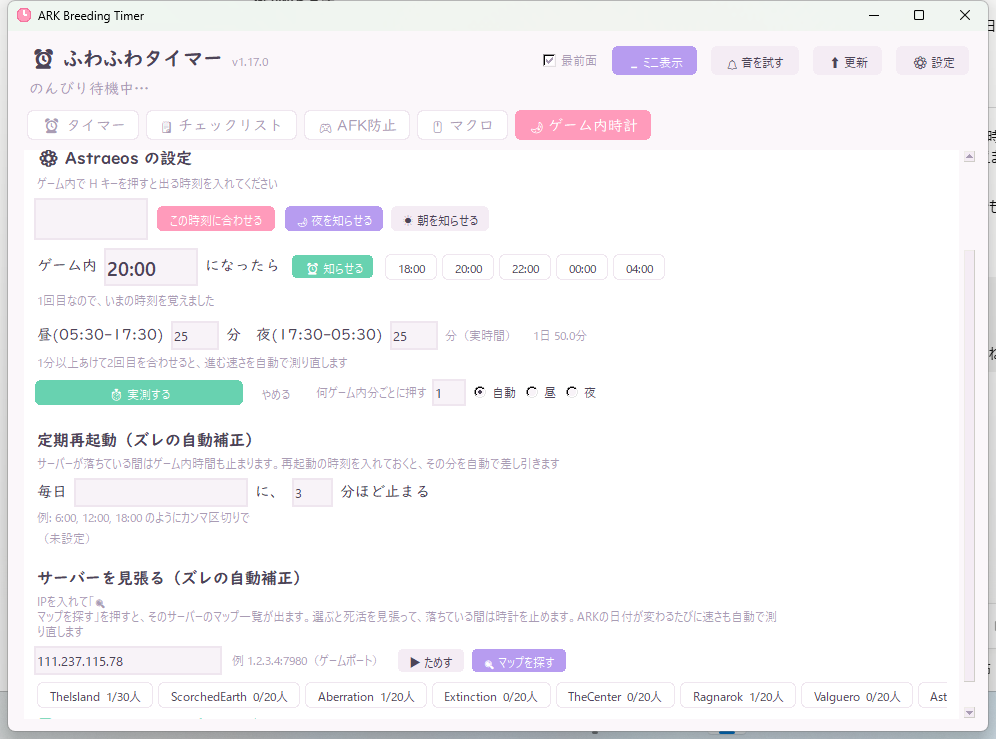
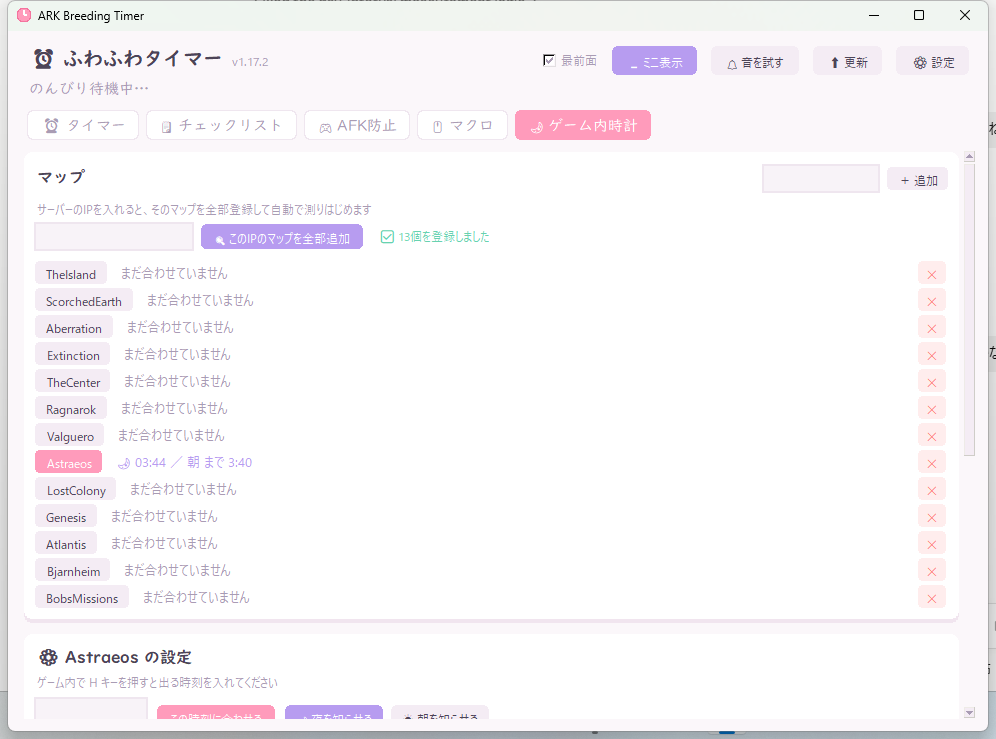
マップ追加をIPひとつで済むようにした (v1.18.0)
サーバーのIPを入れると、そのクラスタのマップを全部まとめて登録する。
名前を打つ→IPを入れる→マップを探す→選ぶ、を1回で終わらせる。
登録した時点でアドレスが入っているので見張りがすぐ始まり、
Dayの変わり目を2回つかまえた時点で速さが自動で測れる。

diff --git a/gametime_page.py b/gametime_page.py
@@ -67,6 +67,24 @@ class GameTimePage(tk.Frame):
         ent.pack(side="right", padx=6, ipady=3)
         ent.bind("<Return>", lambda e: self.add_map())
 
+        bulk = tk.Frame(b, bg=th.CARD)
+        bulk.pack(fill="x", pady=(6, 0))
+        tk.Label(bulk, text="サーバーのIPを入れると、そのマップを全部登録して"
+                            "自動で測りはじめます", bg=th.CARD, fg=th.INK_SUB,
+                 font=F["small"]).pack(anchor="w")
+        brow = tk.Frame(b, bg=th.CARD)
+        brow.pack(fill="x", pady=(2, 0))
+        self.v_bulk = tk.StringVar()
+        be = th.soft_entry(brow, self.v_bulk, width=22)
+        be.pack(side="left", ipady=3)
+        be.bind("<Return>", lambda e: self.add_from_ip())
+        th.RoundButton(brow, "🔍 このIPのマップを全部追加", self.add_from_ip,
+                       kind="accent", bg=th.CARD, font=F["small"], padx=14,
+                       pady=6).pack(side="left", padx=6)
+        self.lbl_bulk = tk.Label(brow, text="", bg=th.CARD, fg=th.INK_SUB,
+                                 font=F["small"])
+        self.lbl_bulk.pack(side="left")
+
         self.rows_box = tk.Frame(b, bg=th.CARD)
         self.rows_box.pack(fill="x", pady=(8, 0))
         self.rows = {}
@@ -358,6 +376,42 @@ class GameTimePage(tk.Frame):
         self.v_new.set("")
         self.app.save_clocks()
         self.rebuild()
+
+    def add_from_ip(self):
+        """IPを1つ入れるだけで、そのサーバーのマップを全部登録する。
+
+        1つずつ名前を打って、IPを入れて、マップを選んで…をやらずに済む。
+        登録した時点で見張りが始まるので、あとは放っておけば速さも測れる。
+        """
+        text = self.v_bulk.get().strip()
+        if not text:
+            self.lbl_bulk.config(text="  ⚠ IPを入れてください", fg=th.PINK_DK)
+            return
+        self.lbl_bulk.config(text="  探しています…", fg=th.INK_SUB)
+        self.update_idletasks()
+        found = self.app.watcher.list_servers(text)
+        if not found:
+            self.lbl_bulk.config(text="  ⚠ そのIPにサーバーが見つかりません",
+                                 fg=th.PINK_DK)
+            return
+        ip = text.replace(":", " ").split()[0]
+        added = skipped = 0
+        for srv in sorted(found, key=lambda x: x.get("port") or 0):
+            name = (srv.get("map") or "").replace("_WP", "") or "?"
+            if not self.app.clocks.add(name):
+                skipped += 1
+                continue
+            c = self.app.clocks.get(name)
+            if c is not None:
+                c.address = "%s:%s" % (ip, srv.get("port"))
+            added += 1
+        self.app.save_clocks()
+        self.v_bulk.set("")
+        self.rebuild()
+        msg = "  ✅ %d個を登録しました" % added
+        if skipped:
+            msg += "（%d個は登録済み）" % skipped
+        self.lbl_bulk.config(text=msg, fg=th.MINT)
 
     def del_map(self, name):
         if not self.app.ask_delete(name, parent=self.winfo_toplevel()):

diff --git a/ark_breeding_timer.py b/ark_breeding_timer.py
@@ -39,7 +39,7 @@ from gametime_page import GameTimePage
 from macro_page import MacroPage
 
 APP_NAME = "ARK Breeding Timer"
-APP_VERSION = "1.17.2"
+APP_VERSION = "1.18.0"
 
 
 def _res_dir():
